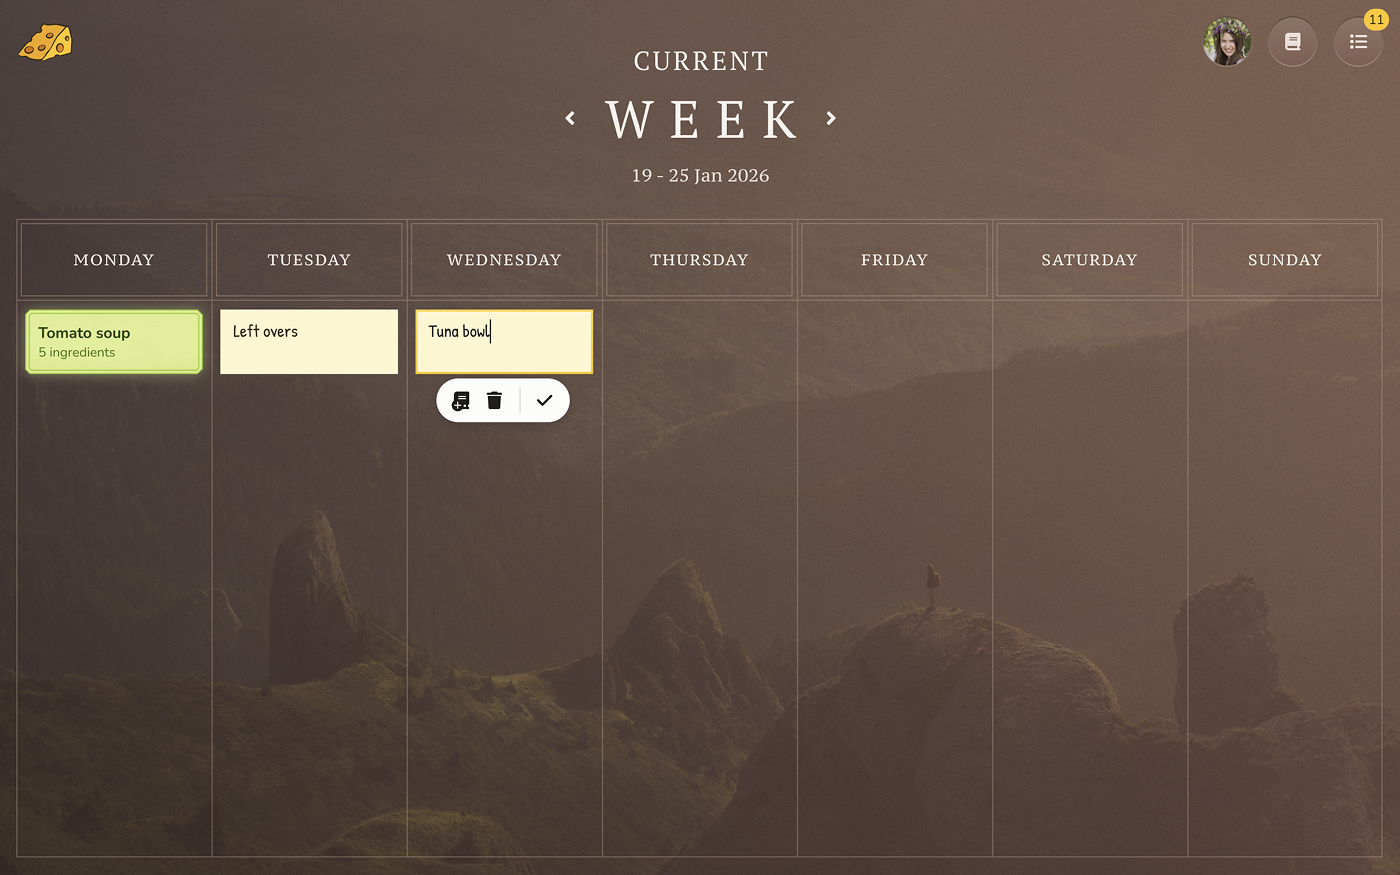
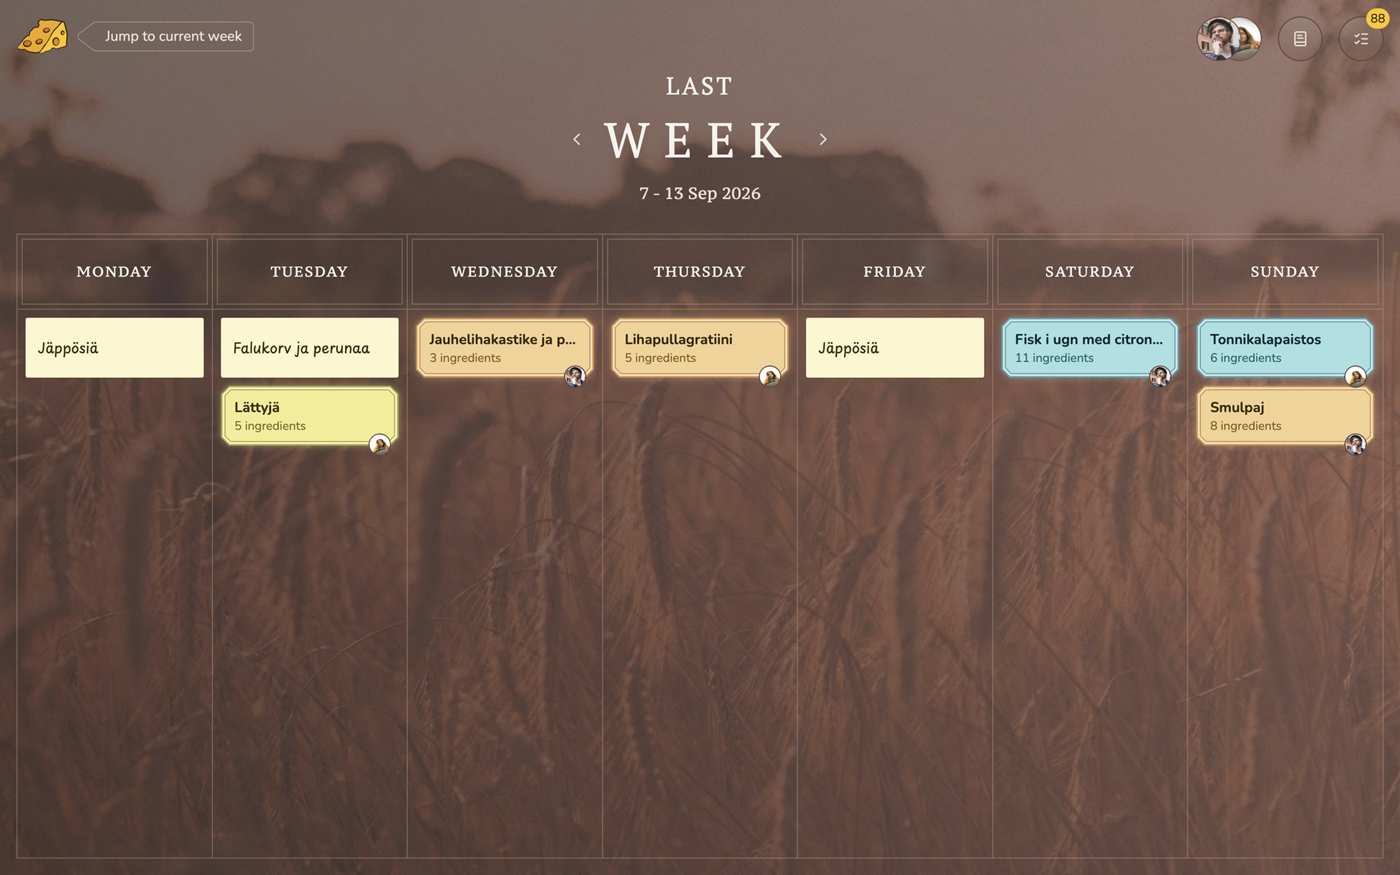
Fixes to screenshots

diff --git a/assets/main.js b/assets/main.js
@@ -215,6 +215,7 @@
      main.css, which is longer on the phone layout than on desktop */
   var LIFT_FALLBACK = 150;
   var FLY_MS = 430;  /* close stage one - must match .is-flying's duration */
+  var OPEN_MS = 300; /* open zoom - must match .is-flying-fast's duration */
   var STEP = 35;     /* per-shot stagger, so they move one after the other */
   var COOL_MS = 200; /* how long the shots stay promoted after landing */
 
@@ -499,12 +500,20 @@
     /* The shots zoom straight from where they sit into the lightbox, on the
        quicker .is-flying-fast timing. */
     var i;
-    stagger(shots, true); /* front shot leads on the way out */
+    var spread = stagger(shots, true); /* front shot leads on the way out */
     for (i = 0; i < shots.length; i++) {
       shots[i].classList.add("is-flying", "is-flying-fast");
     }
     void card.offsetWidth; /* flush, so there is a "before" to animate from */
     fly(card, shots);
+
+    /* Once the zoom has landed, drop the layer promotion so the enlarged
+       shots re-rasterise at their on-screen size. A promoted layer is
+       painted at its untransformed ~425px size and the GPU just stretches
+       that bitmap, which is what made the open view look soft. */
+    timer = setTimeout(function () {
+      card.classList.add("is-shot-sharp");
+    }, OPEN_MS + spread);
   }
 
   function close() {
@@ -515,6 +524,7 @@
     var focus = open.focus;
     open = null;
     clearTimeout(timer);
+    card.classList.remove("is-shot-sharp"); /* re-promote for the flight home */
 
     scrim.classList.remove("is-in");
     closeBtn.classList.remove("is-in");

diff --git a/assets/main.css b/assets/main.css
@@ -2159,6 +2159,14 @@ a.work-card:focus-visible {
   .work-card.is-shot-cooling .work-card__shot {
     will-change: transform;
   }
+
+  /* ...except while the shots sit still in the open view: a promoted layer
+     is rasterised at its untransformed tile size and only scaled up on the
+     GPU, so the enlarged screenshots would read blurry. JS adds this once
+     the open zoom has landed and removes it again before the close. */
+  .work-card.is-shot-open.is-shot-sharp .work-card__shot {
+    will-change: auto;
+  }
 }
 
 /* -- Mobile: screenshots drop below the text, centred, still cropped -- */
